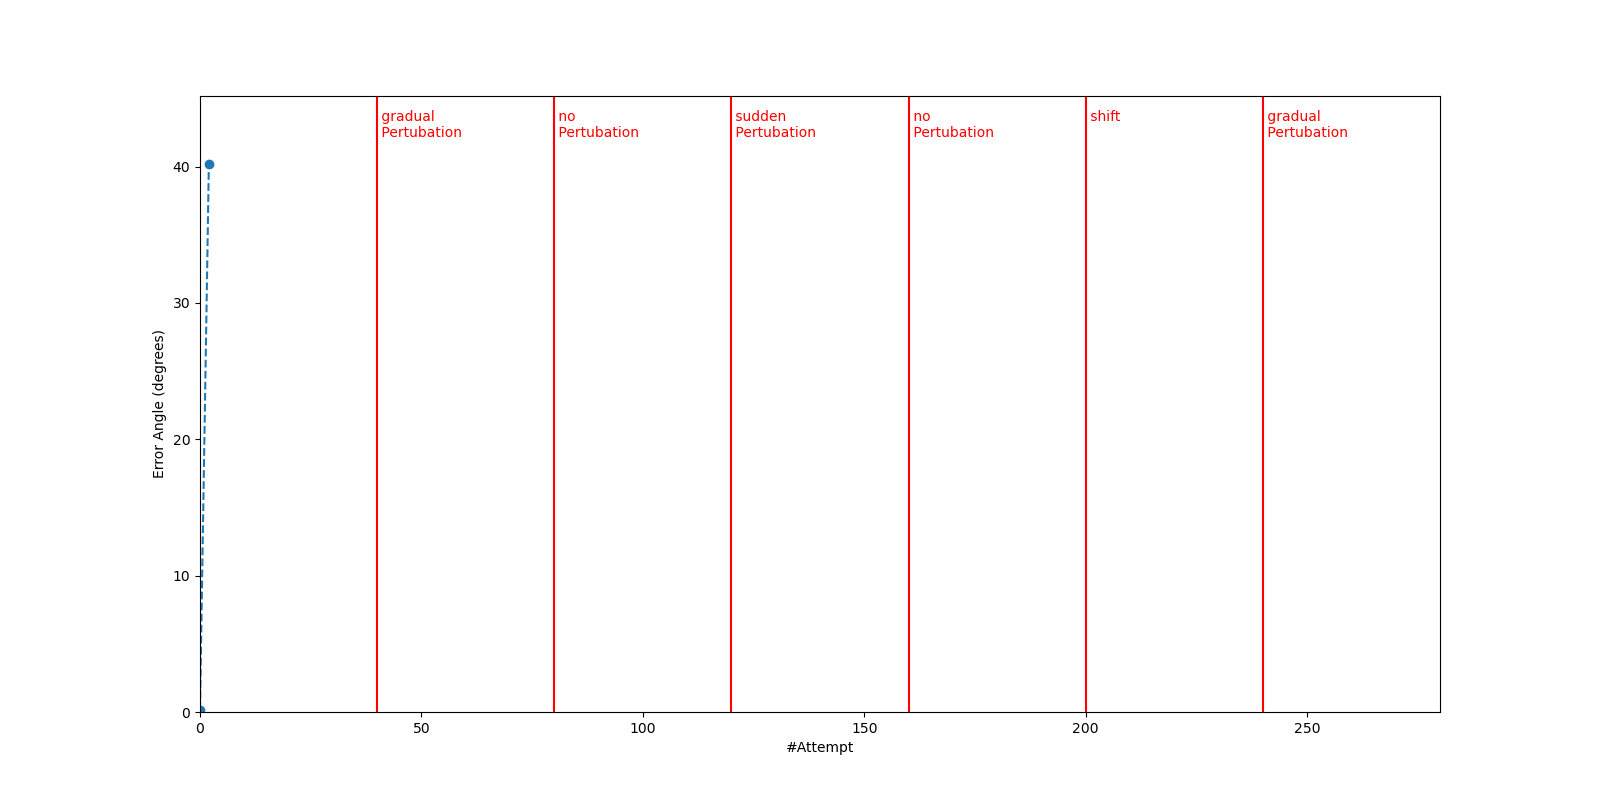
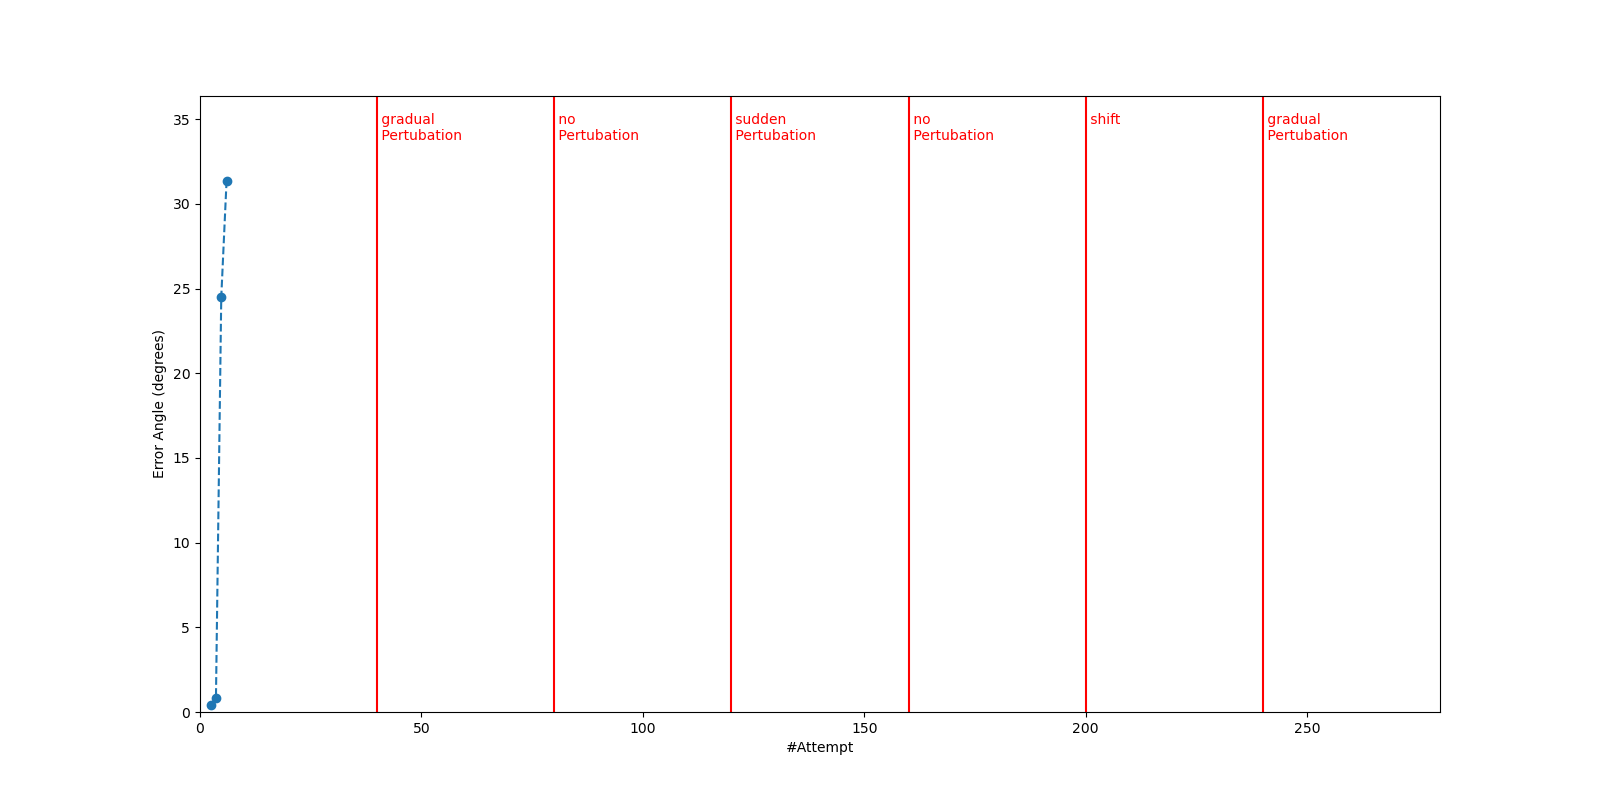
change signs

diff --git a/HW_MS1/reaching-task-ex1.py b/HW_MS1/reaching-task-ex1.py
@@ -109,6 +109,8 @@ while running:
     # Design experiment
     if attempts == 1:
         pertubation_mode = False
+        shift_target = True
+        start_target=math.radians(30)
     elif attempts == 40: #GRAD_START: #40
         pertubation_mode = True
         pertubation_type = 'gradual' 
@@ -122,7 +124,7 @@ while running:
     elif attempts == 200:  #160
         pertubation_mode = False
         shift_target = True
-        start_target=math.radians(-30)
+        start_target=math.radians(30)
     elif attempts == 240:  
         pertubation_mode = 'gradual'
         start_target=math.radians(START_ANGLE)
@@ -199,7 +201,7 @@ while running:
 
 
         if (shift_target):
-            error_angle = error_angle + np.deg2rad(30)
+            error_angle = error_angle - np.deg2rad(30)
     
     
         if error_angle > np.pi:
